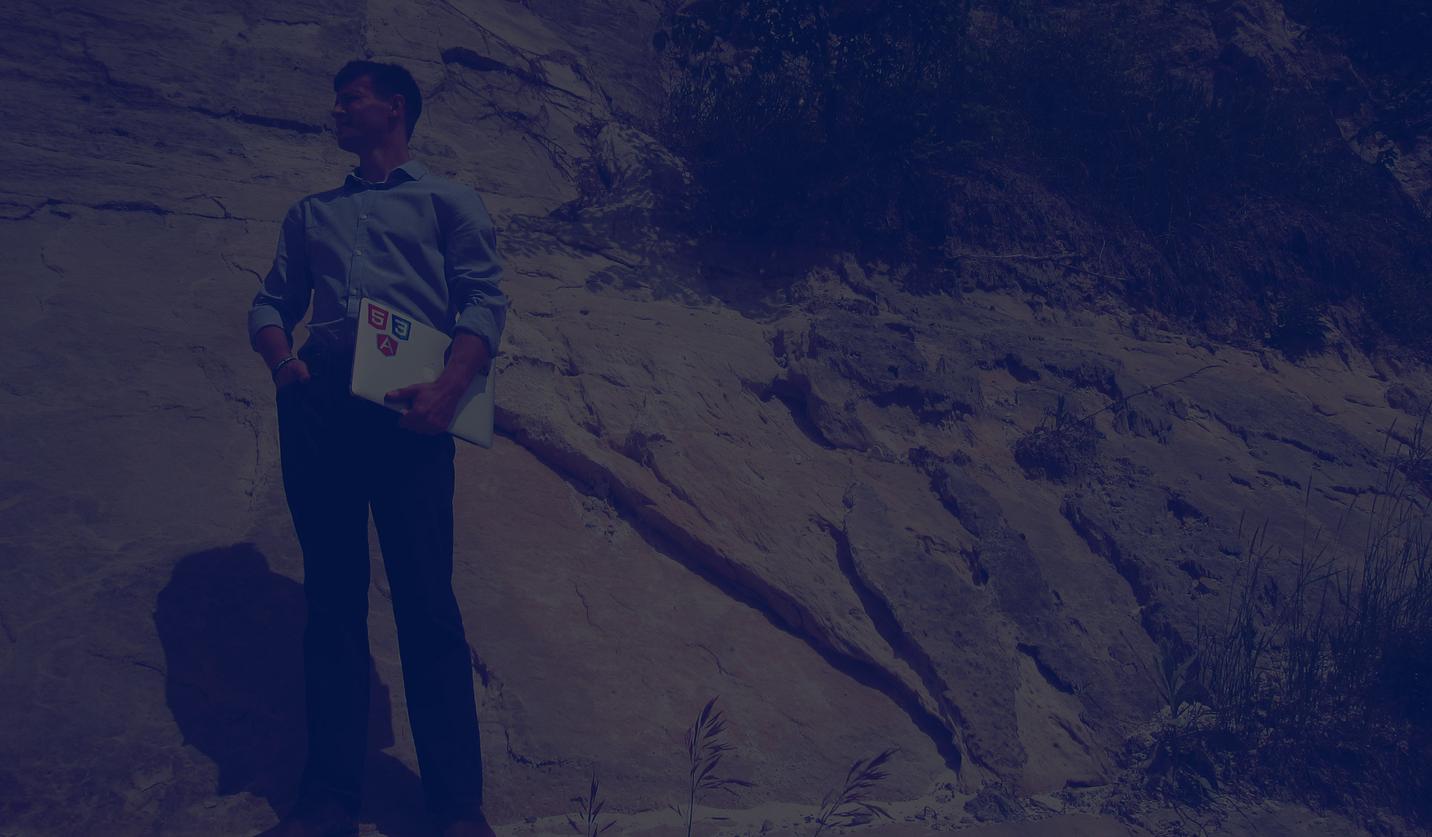
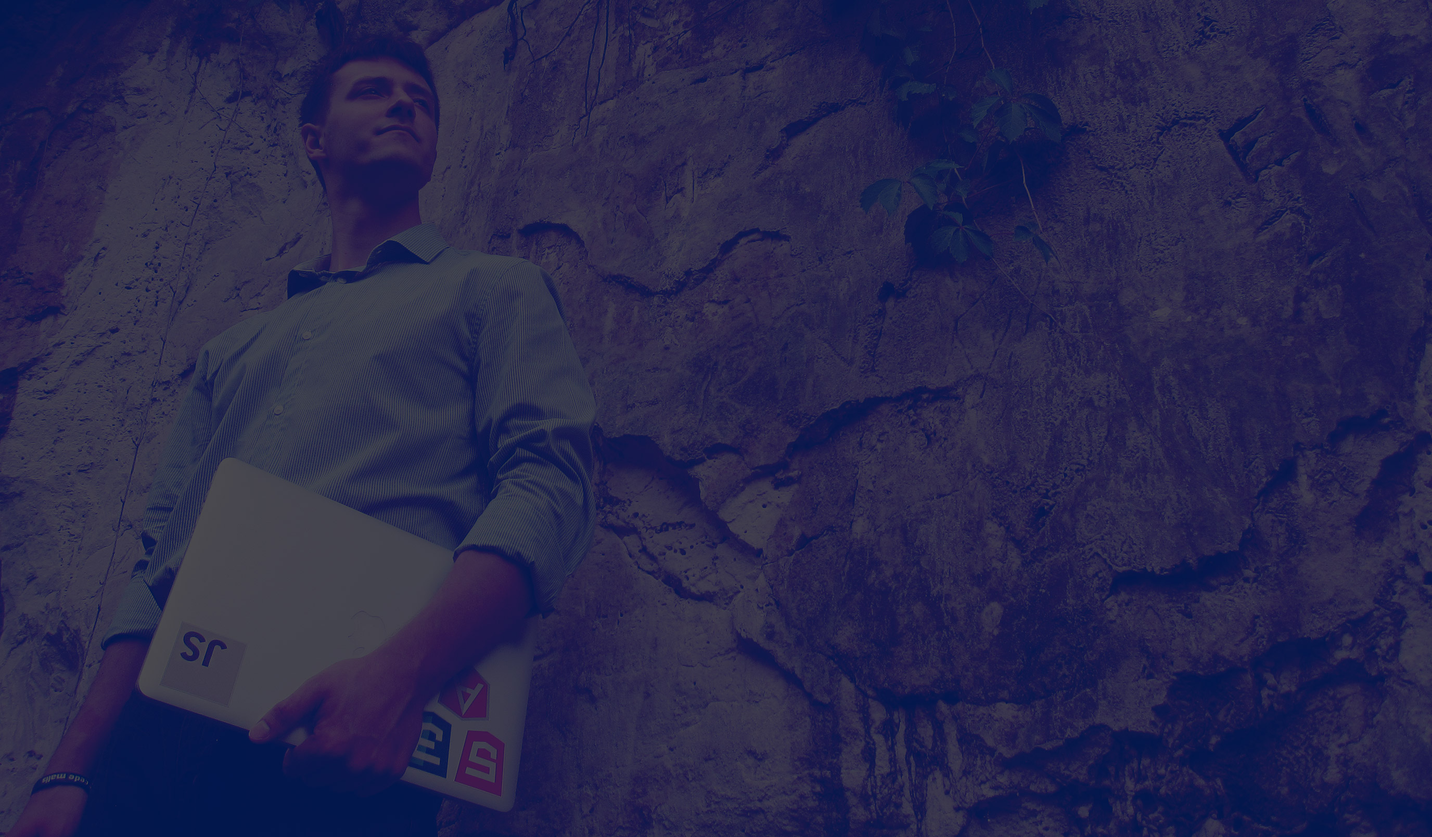
Updated About section with new image. Solidified homepage image

diff --git a/css/styles.min.css b/css/styles.min.css
@@ -1,1 +1,1 @@
-html{font-size:62.5%;height:100%}body{margin:0;font-size:1.8rem;font-family:'PT Sans',Helvetica,Sans-serif;height:100%;perspective:1200px}ul.row{list-style:none}.center{display:block;margin:0 auto}.drop-shadow{text-shadow:4px 3px 0 #0e1523,7px 6px 0 rgba(0,0,0,.15)}.nav{padding:2.5rem 4rem}.nav-list{margin:0;padding:0;list-style:none}.nav-item{float:left;padding:0 2rem;-webkit-transition:all .3s ease-out;-moz-transition:all .3s ease-out;-ms-transition:all .3s ease-out;-o-transition:all .3s ease-out;transition:all .3s ease-out}.nav-item:first-child{padding-left:0}.nav-item:last-child{padding-right:0}.nav-link{padding:1.5rem 0;font-size:1.7rem;cursor:pointer}.nav-link:hover{color:#fff;transition:opacity .15s ease-in-out;-moz-transition:opacity .15s ease-in-out;-webkit-transition:opacity .15s ease-in-out}.nav ul:hover>li{opacity:.3}.nav ul:hover>li:hover{opacity:1}.nav-has-scrollfix{-webkit-transition:all .3s ease-out;-moz-transition:all .3s ease-out;-ms-transition:all .3s ease-out;-o-transition:all .3s ease-out;transition:all .3s ease-out}.page{padding:6rem;min-height:100%}.page-landing{height:100%;padding-top:23rem;background-image:url(../images/bg.jpg);background-size:cover}.page-landing h1{font-size:7rem}.page-landing .btn{margin-top:5rem}.page-about{background-color:#FFF}.page-work{background-color:#233e55}.page-work ul{width:100%;padding:0;margin:0 auto}.page-services{background-color:#f25535}.page-contact{position:relative;background:#0e1523}.page-contact i{position:absolute;bottom:0}.page-contact .col-sm-10{margin:0 7.8%;padding:0}.icon-logo{background-size:60%;background-position:50%;background-color:rgba(14,21,25,.6);padding:6em 0;margin:0 1% 1% 0}.icon-logo.col-sm-3{width:24%}.icon-logo:nth-child(4n){margin-right:0}.icon-logo:hover{background-color:rgba(14,21,25,.2);cursor:pointer}.icon-logo-blueclawco{background-size:20%}.btn{margin-top:2rem;font-family:'PT Sans',Helvetica,Sans-serif;border:2px solid #fff;border-radius:0;background:0 0;letter-spacing:.2rem;text-transform:uppercase;cursor:pointer;-webkit-transition:all .3s;-moz-transition:all .3s;transition:all .3s}.btn i{display:none}.btn:hover{color:#323232;background-color:#fff}.btn:hover i{display:inline-block}.btn-l{padding:1.1rem 2.9rem;font-size:1.5rem}.btn-s{padding:.9rem 2.7rem;font-size:1.2rem}h1,h2,h3{letter-spacing:.1rem;font-family:Arvo,serif}h1{font-size:4rem;margin-top:0}h2{font-size:2.2rem}h3{font-size:1.9rem}a,b,em,i,li,p,span,strong{letter-spacing:.06rem}a{color:#fff}a:hover{text-decoration:none}.page-contact,.page-landing,.page-services,.page-work{color:#fff}.page-landing h2{letter-spacing:.3rem}.logo{font-size:2rem}.logo:hover{color:#a6ebff}.ui-scrollfix{box-shadow:0 -2px 10px #888;background-color:#fff;-webkit-transition:all .3s ease-out;-moz-transition:all .3s ease-out;-ms-transition:all .3s ease-out;-o-transition:all .3s ease-out;transition:all .3s ease-out}.ui-scrollfix a{color:#323232}.ui-scrollfix ul{margin:0;-webkit-transition:all .3s ease-out;-moz-transition:all .3s ease-out;-ms-transition:all .3s ease-out;-o-transition:all .3s ease-out;transition:all .3s ease-out}.nav.ui-scrollfix ul a:hover{color:#323232}
+html{font-size:62.5%;height:100%}body{margin:0;font-size:1.8rem;font-family:'PT Sans',Helvetica,Sans-serif;height:100%;perspective:1200px}ul.row{list-style:none}.center{display:block;margin:0 auto}.drop-shadow{text-shadow:4px 3px 0 #0e1523,7px 6px 0 rgba(0,0,0,.15)}.thumb{border-radius:50%;display:block;-webkit-transition:all .8s ease;-moz-transition:all .8s ease;-o-transition:all .8s ease;-ms-transition:all .8s ease;transition:all .8s ease}.thumb:hover{opacity:.8}.nav{padding:2.5rem 4rem}.nav-list{margin:0;padding:0;list-style:none}.nav-item{float:left;padding:0 2rem;-webkit-transition:all .3s ease-out;-moz-transition:all .3s ease-out;-ms-transition:all .3s ease-out;-o-transition:all .3s ease-out;transition:all .3s ease-out}.nav-item:first-child{padding-left:0}.nav-item:last-child{padding-right:0}.nav-link{padding:1.5rem 0;font-size:1.7rem;cursor:pointer}.nav-link:hover{color:#fff;transition:opacity .15s ease-in-out;-moz-transition:opacity .15s ease-in-out;-webkit-transition:opacity .15s ease-in-out}.nav ul:hover>li{opacity:.3}.nav ul:hover>li:hover{opacity:1}.nav-has-scrollfix{-webkit-transition:all .3s ease-out;-moz-transition:all .3s ease-out;-ms-transition:all .3s ease-out;-o-transition:all .3s ease-out;transition:all .3s ease-out}.page{padding:6rem;min-height:100%}.page-landing{height:100%;padding-top:23rem;background-image:url(../images/bg.jpg);background-size:cover}.page-landing h1{font-size:7rem}.page-landing .btn{margin-top:5rem}.page-about{background-color:#FFF}.page-work{background-color:#233e55}.page-work ul{width:100%;padding:0;margin:0 auto}.page-services{background-color:#f25535}.page-contact{position:relative;background:#0e1523}.page-contact i{position:absolute;bottom:0}.page-contact .col-sm-10{margin:0 7.8%;padding:0}.icon-logo{background-size:60%;background-position:50%;background-color:rgba(14,21,25,.6);padding:6em 0;margin:0 1% 1% 0}.icon-logo.col-sm-3{width:24%}.icon-logo:nth-child(4n){margin-right:0}.icon-logo:hover{background-color:rgba(14,21,25,.2);cursor:pointer}.icon-logo-blueclawco{background-size:20%}.btn{padding:1em 2.5em;margin-top:2rem;font-family:'PT Sans',Helvetica,Sans-serif;border:2px solid #fff;border-radius:0;background:0 0;letter-spacing:.2rem;text-transform:uppercase;cursor:pointer;position:relative;overflow:hidden;-webkit-transition:all .2s;-moz-transition:all .2s;transition:all .2s}.btn:hover{color:#454545;background:#fff;padding-right:3.6em;padding-left:2em}.btn:after{position:absolute;content:'\f138';font-family:FontAwesome;right:-40%;transition:.3s;color:#323232;top:.98em;font-size:1em}.btn:hover:after{right:1.9em}.btn-l{font-size:1.6rem}.btn-s{font-size:1.3rem}h1,h2,h3{letter-spacing:.1rem;font-family:Arvo,Helvetica,Sans-serif}h1{font-size:3rem;margin-top:0}h2{font-size:2.2rem}h3{font-size:1.9rem}a,b,em,i,li,p,span,strong{letter-spacing:.06rem;line-height:2.7rem}a{color:#fff}a:hover{text-decoration:none}.page-contact,.page-landing,.page-services,.page-work{color:#fff}.page-landing h2{letter-spacing:.3rem}.logo{font-size:2rem}.logo:hover{color:#a6ebff}.ui-scrollfix{box-shadow:0 -2px 10px #888;background-color:#fff;opacity:.95;-webkit-transition:all .3s ease-out;-moz-transition:all .3s ease-out;-ms-transition:all .3s ease-out;-o-transition:all .3s ease-out;transition:all .3s ease-out}.ui-scrollfix a{color:#454545}.ui-scrollfix ul{margin:0;-webkit-transition:all .3s ease-out;-moz-transition:all .3s ease-out;-ms-transition:all .3s ease-out;-o-transition:all .3s ease-out;transition:all .3s ease-out}.nav.ui-scrollfix ul a:hover{color:#454545}

diff --git a/views/about.html b/views/about.html
@@ -1,9 +1,11 @@
 <section class="page page-about container-fluid" id="about">
    <figure class="row">
-      <figcaption class="col-md-6">
-         <h1 class="drop-shadow">Nice to meet you!</h1>
-         <!-- <p>Lorem ipsum dolor sit amet, consectetur adipisicing elit, sed do eiusmod tempor incididunt ut labore et dolore magna aliqua. Ut enim ad minim veniam, quis nostrud exercitation ullamco laboris nisi ut aliquip ex ea commodo consequat. Duis aute irure dolor in reprehenderit in voluptate velit esse cillum dolore eu fugiat nulla pariatur. Excepteur sint occaecat cupidatat non proident, sunt in culpa qui officia deserunt mollit anim id est laborum.</p> -->
+      <figcaption class="col-sm-8">
+         <h1>It's great to meet you.</h1>
+         <p>Lorem ipsum dolor sit amet, consectetur adipisicing elit, sed do eiusmod tempor incididunt ut labore et dolore magna aliqua. Ut enim ad minim veniam, quis nostrud exercitation ullamco laboris nisi ut aliquip ex ea commodo consequat. Duis aute irure dolor in reprehenderit in voluptate velit esse cillum dolore eu fugiat nulla pariatur. Excepteur sint occaecat cupidatat non proident, sunt in culpa qui officia deserunt mollit anim id est laborum.</p>
       </figcaption>
-      <!-- <img src="imgs/me.jpg" class="img-responsive pull-right col-md-6"> -->
+      <div class="col-sm-4">
+      	<img src="images/me.jpg" class="img-responsive center thumb">
+      </div>
    </figure>
 </section>

diff --git a/css/scss/_buttons.scss b/css/scss/_buttons.scss
@@ -1,4 +1,5 @@
 .btn {
+	padding: 1em 2.5em;
 	margin-top: 2rem;
 	font-family: $font-secondary;
 	border: 2px solid $color-light;
@@ -7,36 +8,39 @@
 	letter-spacing: 0.2rem;
 	text-transform: uppercase;
 	cursor: pointer;
-	-webkit-transition: all 0.3s;
-	-moz-transition: all 0.3s;
-	transition: all 0.3s;
-
-	i {
-		display: none;
-	}
+	position: relative;
+	overflow: hidden;
+	-webkit-transition: all 0.2s;
+	-moz-transition: all 0.2s;
+	transition: all 0.2s;
 
 	&:hover {
 		color: $color-dark;
-		background-color: $color-light;
-		i {
-			display: inline-block;
-		}
+		background: $color-light;
+		padding-right: 3.6em;
+		padding-left: 2em;
 	}
 
 	&:after {
-		// content: '';
-		// position: absolute;
-		// z-index: -1;
-		// -webkit-transition: all 0.3s;
-		// -moz-transition: all 0.3s;
-		// transition: all 0.3s;
+		position: absolute;
+		content: '\f138'; // f0e7 (lighting bolt)
+		font-family: FontAwesome;
+		right: -40%;
+		transition: .3s;
+		color: #323232;
+		top: 0.98em;
+		font-size: 1em;
 	}
+
 }
+
+.btn:hover:after {
+  right: 1.9em;
+}
+
 .btn-l {
-	padding: 1.1rem 2.9rem;
-	font-size: 1.5rem;
+	font-size: 1.6rem;
 }
 .btn-s {
-	padding: 0.9rem 2.7rem;
-	font-size: 1.2rem;
+	font-size: 1.3rem;
 }

diff --git a/views/services.html b/views/services.html
@@ -1,7 +1,9 @@
 <section class="page page-services container-fluid" id="services">
    <div class="row">
       <div class="col-sm-12">
-         <h1 class="drop-shadow">Services</h1>
+         <h1>Services</h1>
+			<button class="btn btn-l center">Learn More</button>
+			<button class="btn btn-s center">Learn more</button>
          <!-- <p>Lorem ipsum dolor sit amet, consectetur adipisicing elit, sed do eiusmod tempor incididunt ut labore et dolore magna aliqua. Ut enim ad minim veniam, quis nostrud exercitation ullamco laboris nisi ut aliquip ex ea commodo consequat. Duis aute irure dolor in reprehenderit in voluptate velit esse cillum dolore eu fugiat nulla pariatur. Excepteur sint occaecat cupidatat non proident, sunt in culpa qui officia deserunt mollit anim id est laborum.</p>
 			<img src="../imgs/ang.svg">
 			<img src="../imgs/grunt.svg">

diff --git a/views/work.html b/views/work.html
@@ -1,7 +1,9 @@
 <section class="page page-work container-fluid" id="work">
    <div class="row">
       <div class="col-sm-12">
-         <h1 class="drop-shadow">Work</h1>
+         <h1>Work</h1>
+			<button class="btn btn-l center">Learn More</button>
+			<button class="btn btn-s center">Learn more</button>
          <!-- <p>Lorem ipsum dolor sit amet, consectetur adipisicing elit, sed do eiusmod tempor incididunt ut labore et dolore magna aliqua. Ut enim ad minim veniam, quis nostrud exercitation ullamco laboris nisi ut aliquip ex ea commodo consequat. Duis aute irure dolor in reprehenderit in voluptate velit esse cillum dolore eu fugiat nulla pariatur. Excepteur sint occaecat cupidatat non proident, sunt in culpa qui officia deserunt mollit anim id est laborum.</p> -->
       </div>
    </div>

diff --git a/views/contact.html b/views/contact.html
@@ -1,7 +1,9 @@
 <section class="page page-contact container-fluid" id="contact">
    <div class="row">
       <div class="col-sm-10">
-         <h1 class="drop-shadow text-center">Feel free to get in touch!</h1>
+         <h1 class="text-center">Feel free to get in touch!</h1>
+		   <button class="btn btn-l center">Learn More</button>
+		   <button class="btn btn-s center">Learn more</button>
          <!-- <p>Lorem ipsum dolor sit amet, consectetur adipisicing elit, sed do eiusmod tempor incididunt ut labore et dolore magna aliqua. Ut enim ad minim veniam, quis nostrud exercitation ullamco laboris nisi ut aliquip ex ea commodo consequat.</p> -->
       </div>
    </div>

diff --git a/index.html b/index.html
@@ -24,7 +24,7 @@
  _____/ _| _|  _|  _| .__/ _| \___| _.__/ _| \___| _|  _| \__,_|
                      _|
 
-I'm assuming if you're reading this, we're of similar ilk. If you or your company is in need of any help I'm always looking for new opportunities! Definitely don't hesitate to get in touch, even if to just say hi. Hope to talk to you soon!
+I'm assuming if you're reading this, we're of similar ilk. If you or your company is in need of any help I'm always looking for new opportunities! Don't hesitate to get in touch—even if to just say hi. Hope to talk to you soon!
 
 Cheers,
 

diff --git a/gulpfile.js b/gulpfile.js
@@ -22,10 +22,12 @@ var gulp = require('gulp'),
 			all: 'css/scss/*.scss'
 		},
 		css: {
-			dest: 'css',
-			main: 'css/styles.min.css'
+			main: 'styles.min.css',
+			dest: 'css'
 		},
 		js: {
+			main: 'scripts.min.js',
+			dest: 'js',
 			vendor: [
 				// Order matters for vendor libraries
 				'js/vendor/angular.min.js',
@@ -40,9 +42,7 @@ var gulp = require('gulp'),
 				'js/app/controllers/*.js',
 				'js/app/services/*.js',
 				'js/app/directives/*.js'
-			],
-			dest: 'js',
-			main: 'scripts.min.js'
+			]
 		},
 		images: {
 			'src': 'images/*',

diff --git a/css/scss/_mixins.scss b/css/scss/_mixins.scss
@@ -6,3 +6,16 @@
 .drop-shadow {
 	text-shadow: 4px 3px 0px $color-4, 7px 6px 0px rgba(0, 0, 0, 0.15);
 }
+.thumb {
+	border-radius: 50%;
+	display: block;
+	-webkit-transition: all 0.8s ease;
+	-moz-transition: all 0.8s ease;
+	-o-transition: all 0.8s ease;
+	-ms-transition: all 0.8s ease;
+	transition: all 0.8s ease;
+
+	&:hover {
+		opacity: 0.8;
+	}
+}

diff --git a/css/scss/_type.scss b/css/scss/_type.scss
@@ -1,9 +1,9 @@
 h1, h2, h3 {
     letter-spacing: 0.1rem;
-    font-family:'Arvo', serif;
+    font-family: $font-primary;
 }
 h1 {
-    font-size: 4rem;
+    font-size: 3rem;
     margin-top: 0;
 }
 h2 {
@@ -14,6 +14,7 @@ h3 {
 }
 p, a, li, em, strong, b, i, span {
     letter-spacing: 0.06rem;
+    line-height: 2.7rem;
 }
 a {
     color: $color-light;

diff --git a/css/scss/_variables.scss b/css/scss/_variables.scss
@@ -4,7 +4,7 @@ $font-secondary: 'PT Sans', Helvetica, Sans-serif;
 
 // Colors
 $color-light: white;
-$color-dark: #323232;
+$color-dark: #454545;
 $color-primary: #a6ebff;
 $color-secondary: #0e1523;
 

diff --git a/css/scss/_overrides.scss b/css/scss/_overrides.scss
@@ -2,6 +2,7 @@
 .ui-scrollfix {
 	box-shadow: 0px -2px 10px #888;
 	background-color: $color-light;
+	opacity: 0.95;
 
 	-webkit-transition: all 0.3s ease-out;
 	-moz-transition: all 0.3s ease-out;
